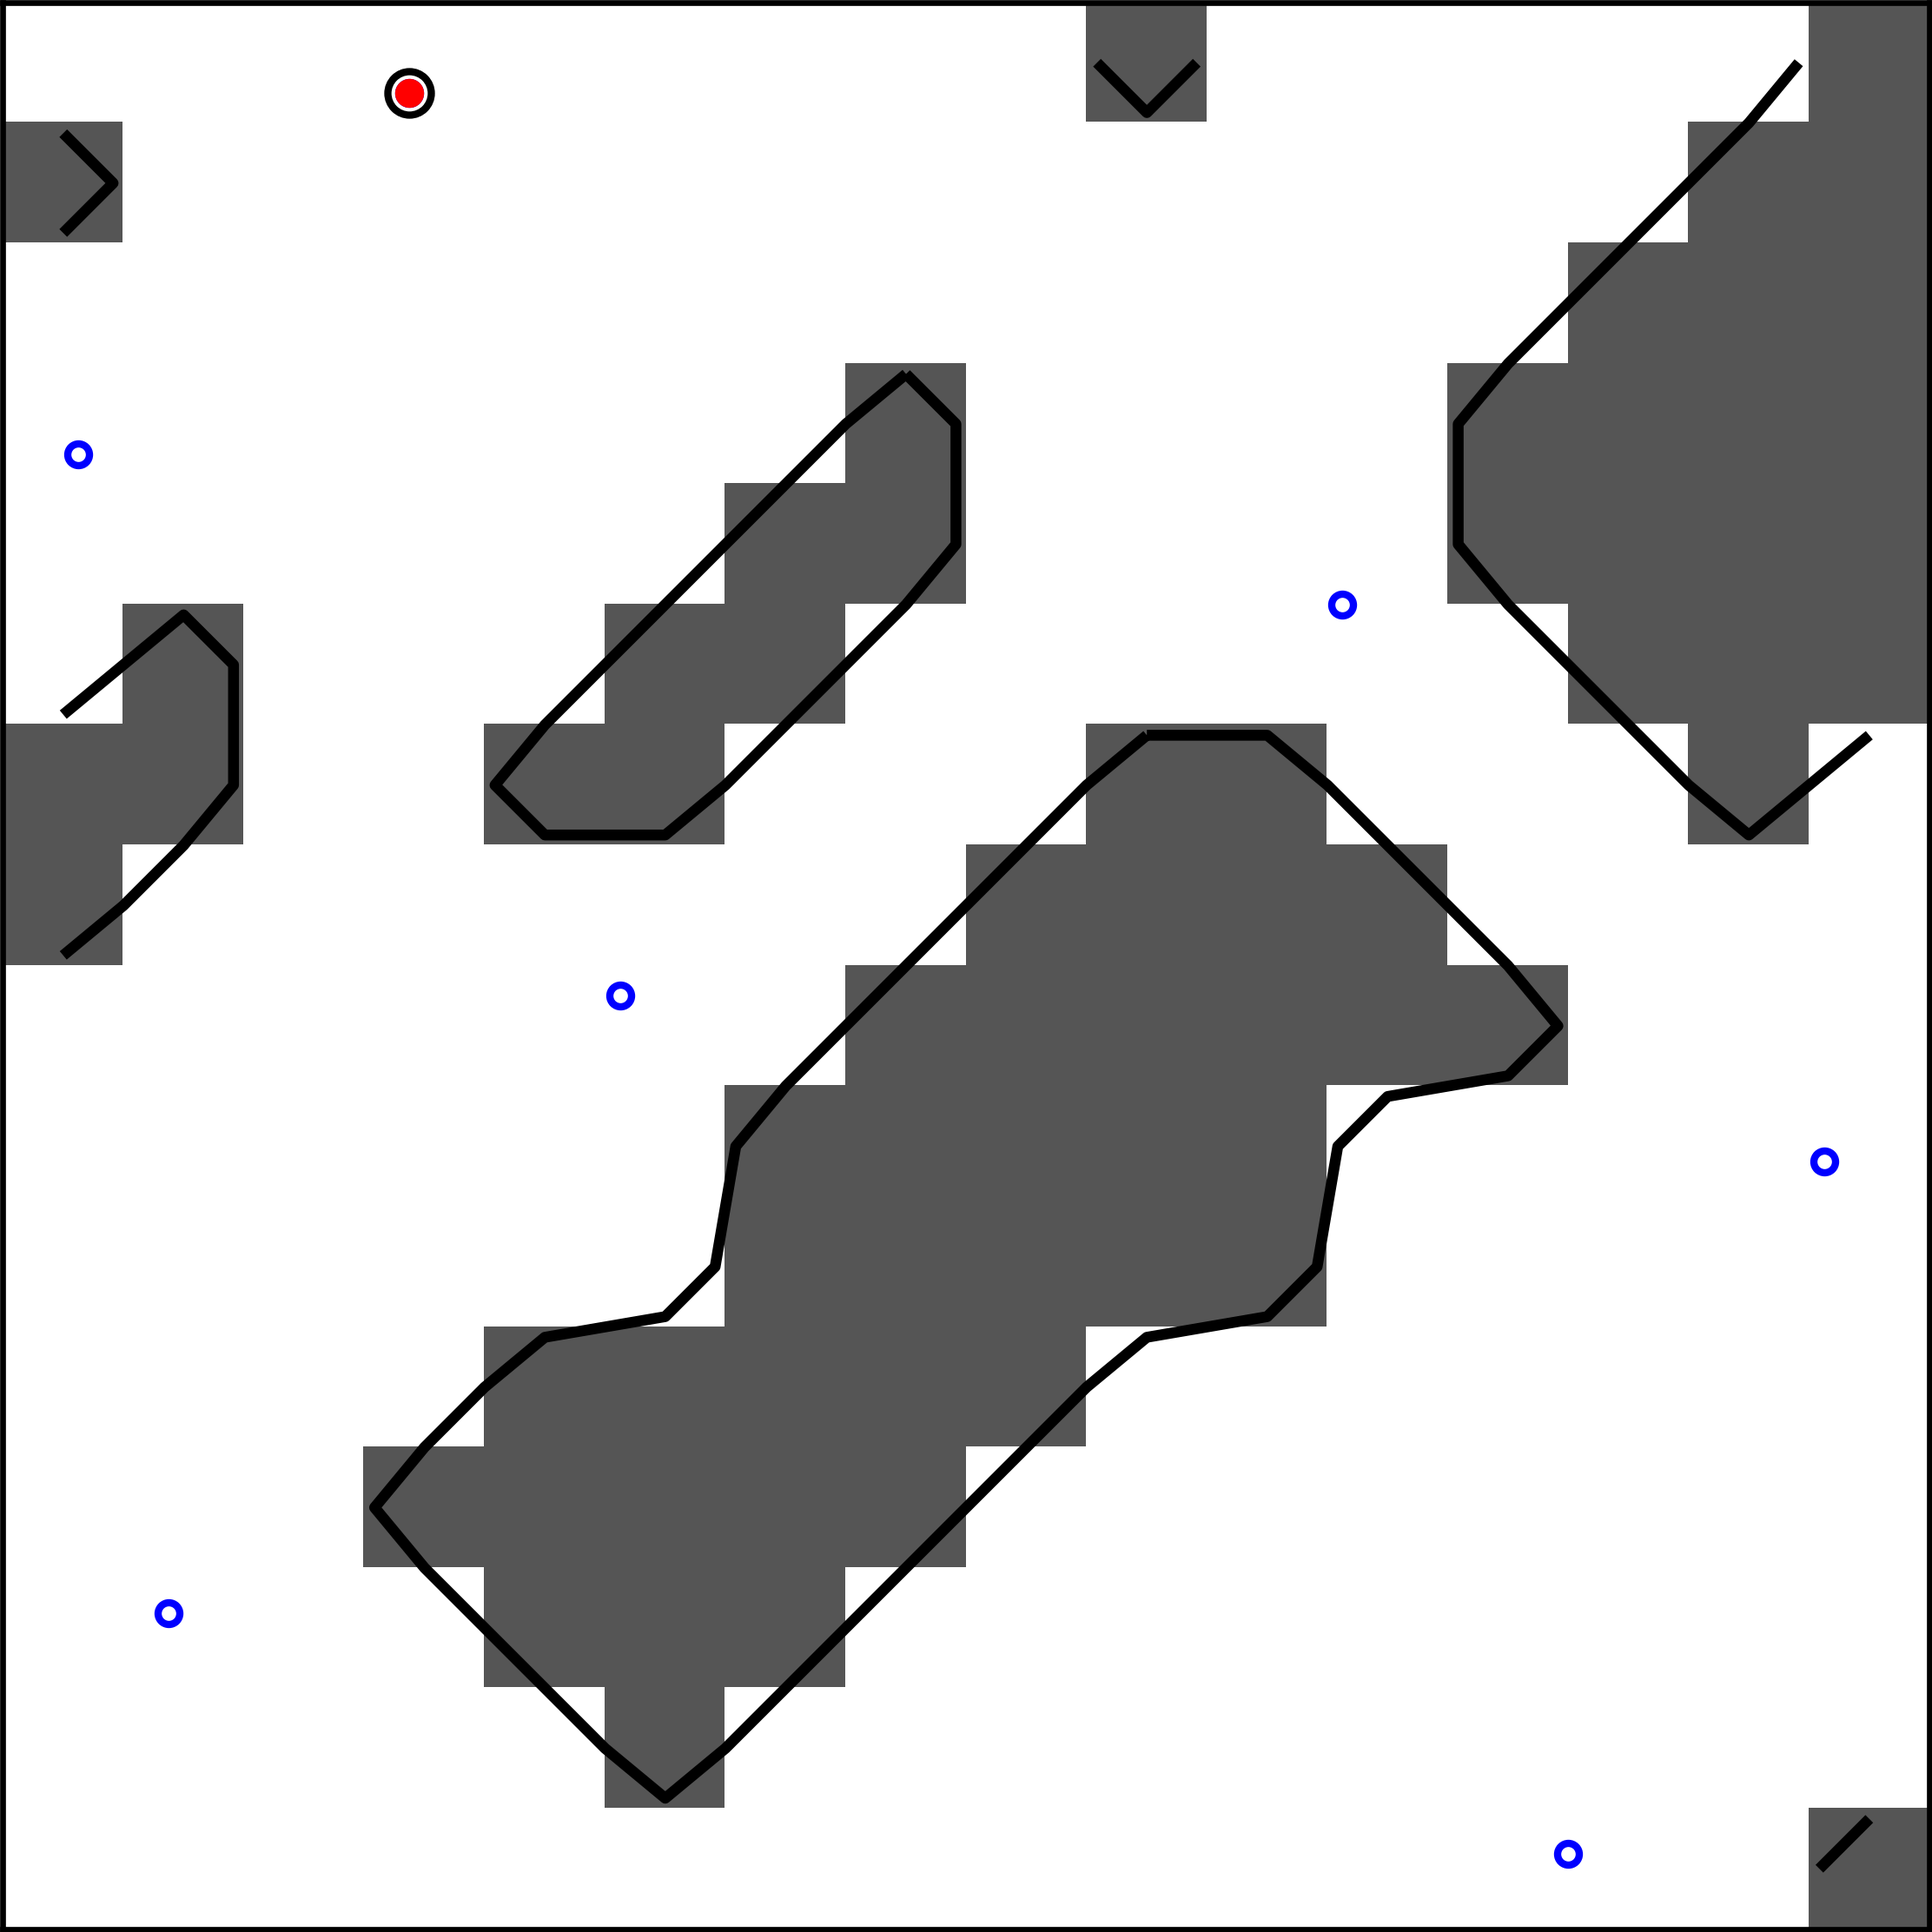
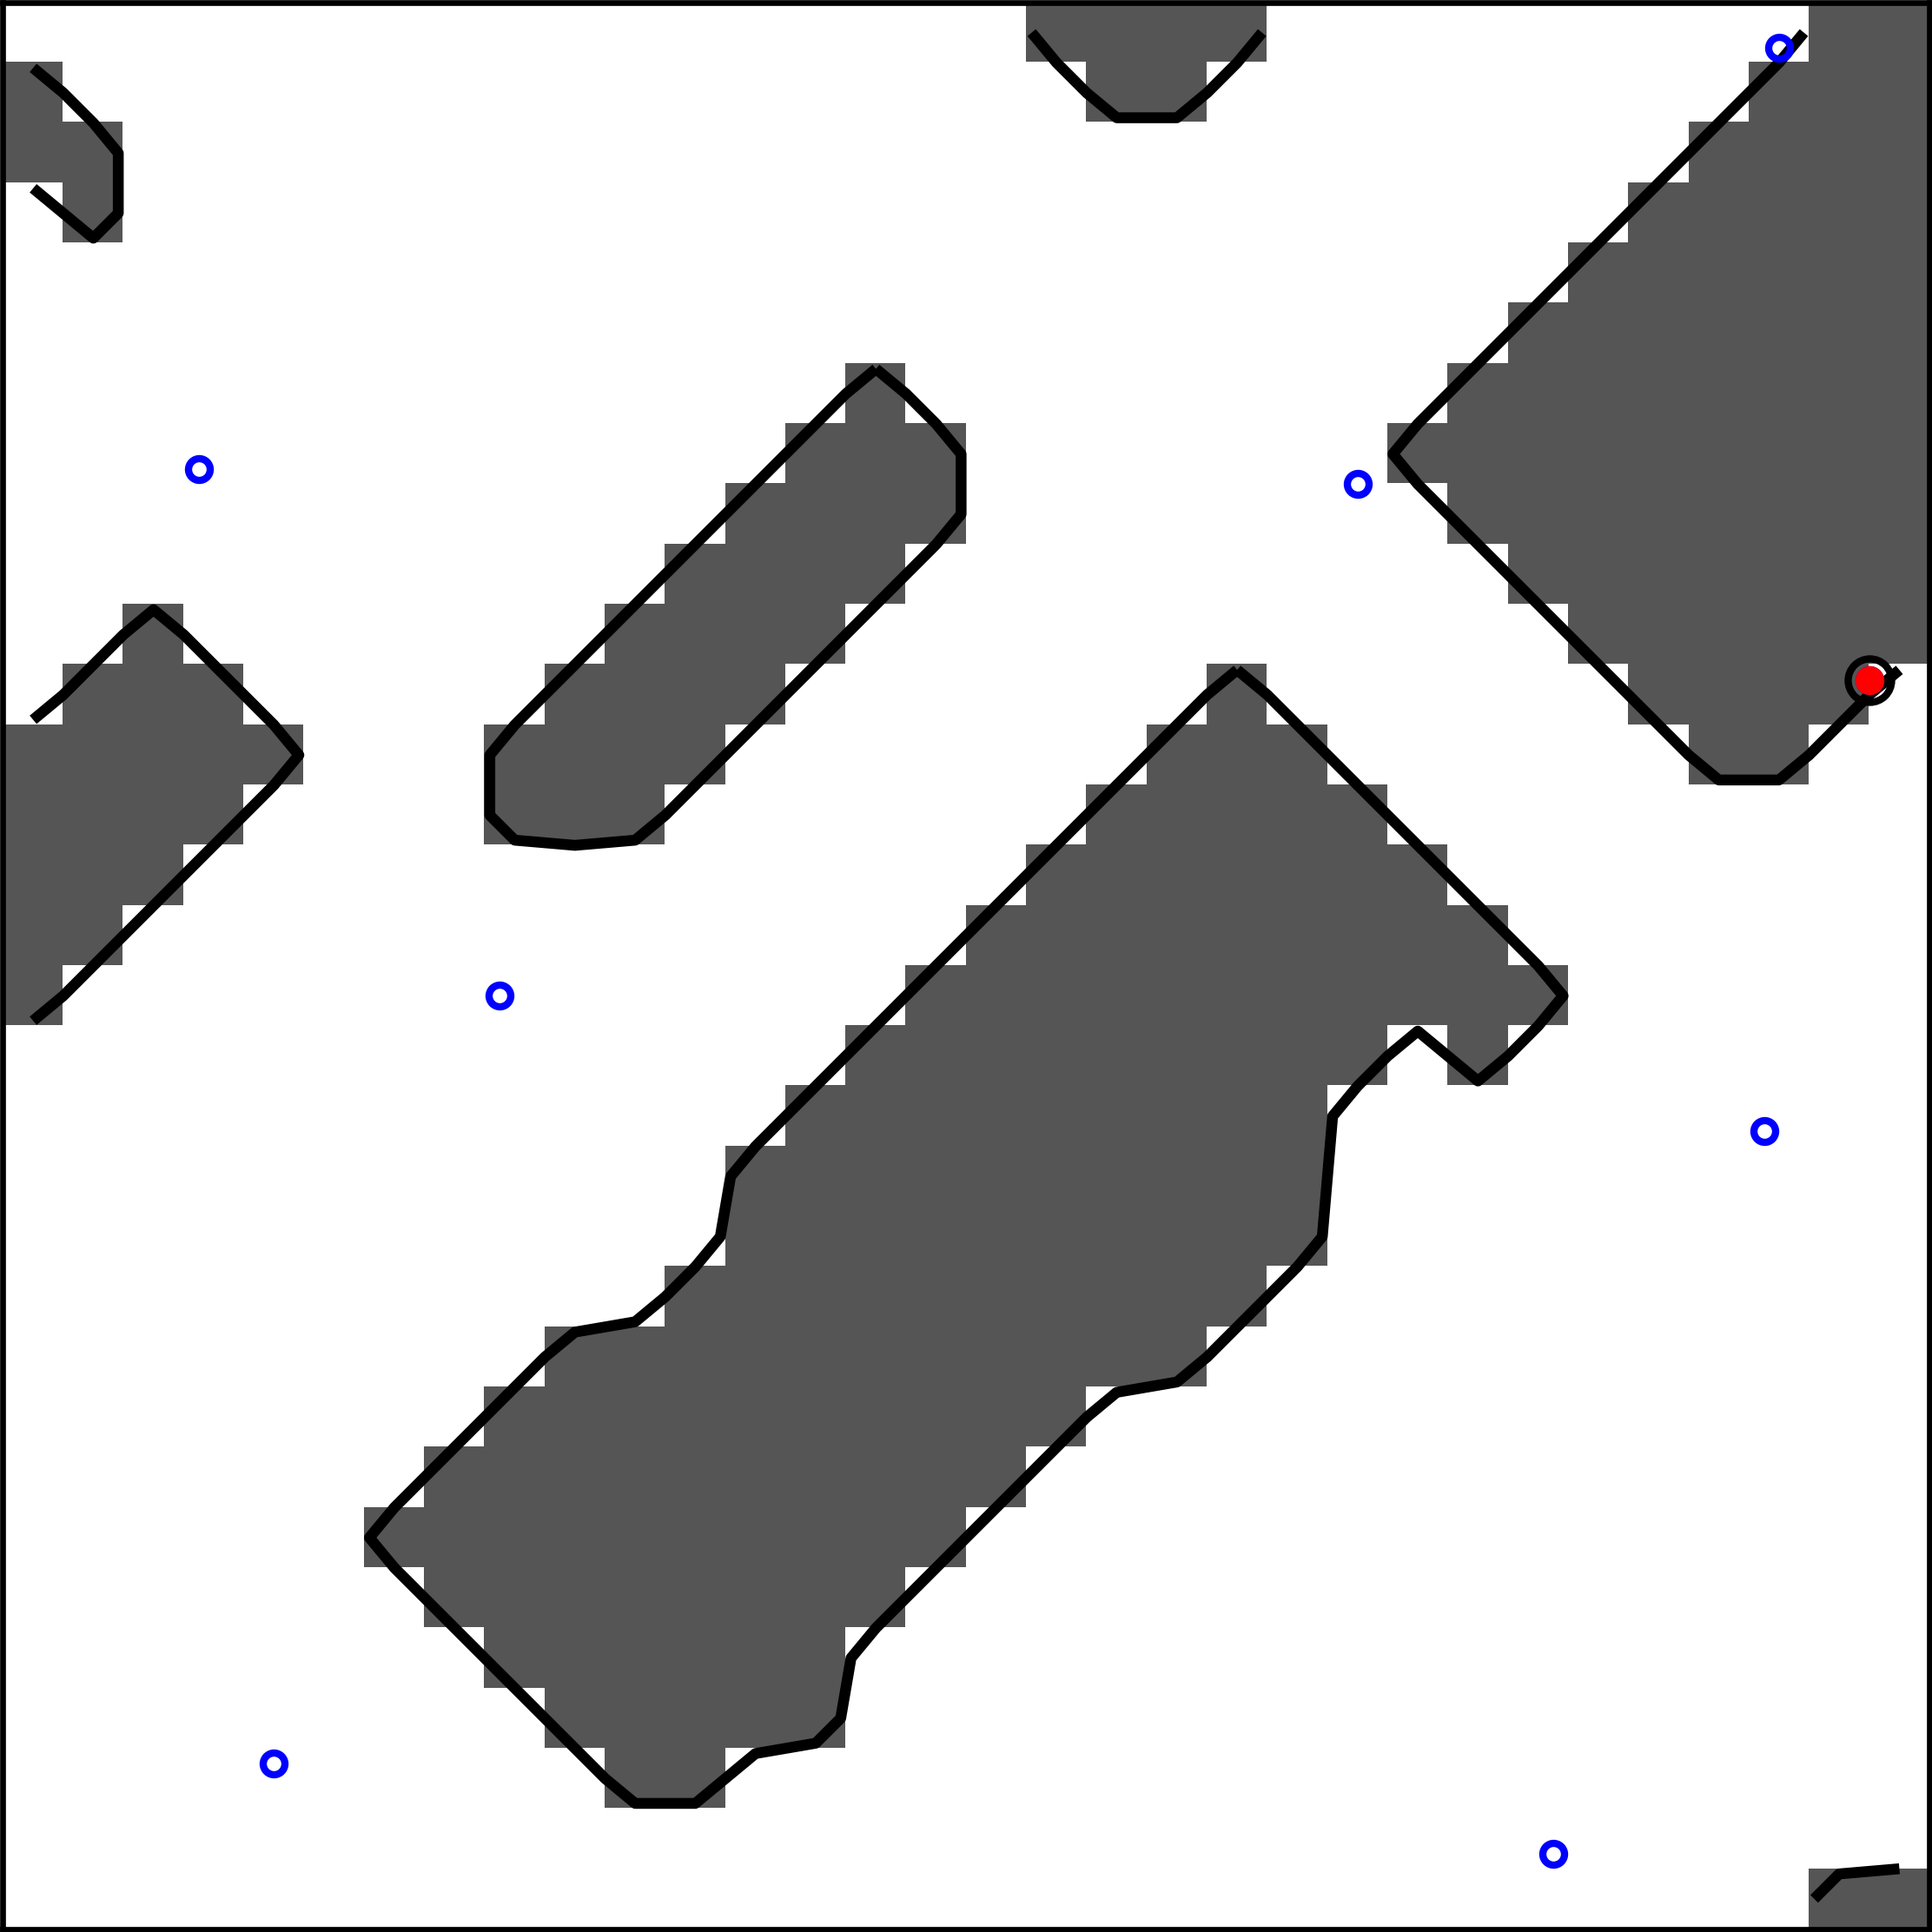
Added borders to images

diff --git a/exploration/compute_stations.py b/exploration/compute_stations.py
@@ -256,6 +256,14 @@ def run_sequence(im, predict_func, x0, output_path = None):
 
 
 
+def add_border(im, pad=2):
+    im[:pad,:] = 0
+    im[:,:pad] = 0
+    im[-pad:,:] = 0
+    im[:,-pad:] = 0
+
+    return im
+
 if __name__ == '__main__':
     parser = argparse.ArgumentParser()
     parser.add_argument('image_path')
@@ -284,6 +292,8 @@ if __name__ == '__main__':
 
     phi =  distance(im2double(small_im)-.5, 1.0/args.size)
     show(phi, x0, 1.0/args.size, phi, 0*phi, 0*phi, phi, prefix +'_path.png') 
+
+    small_im = add_border(small_im)
     cv2.imwrite(prefix + '_map.png', small_im)
 
     # vantage points are in range [0,1] so we scale back to pixels [0,args.size]
